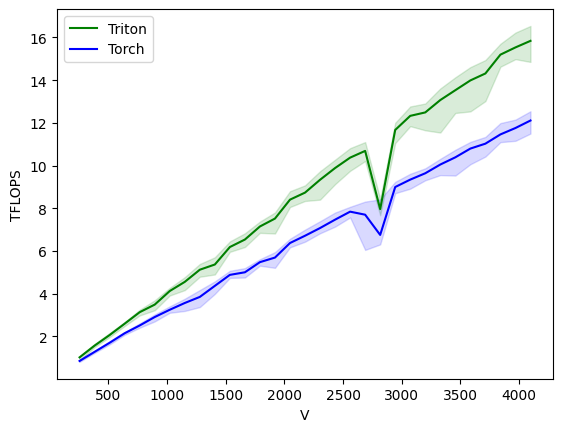
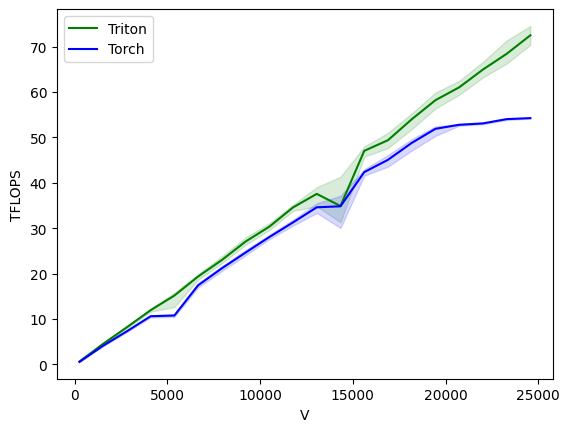
use split k in spatial gradients

diff --git a/spatial_gradients/kernels.py b/spatial_gradients/kernels.py
@@ -283,7 +283,7 @@ def _bwd_kernel2(
     stride_xgrk, stride_xgrm, stride_xgik, stride_xgim, stride_gradrk, stride_gradrn, stride_gradik, stride_gradin,
     stride_dlrm, stride_dlrn, stride_dlim, stride_dlin,
     BLOCK_M: tl.constexpr, BLOCK_N: tl.constexpr, BLOCK_K: tl.constexpr,
-    GROUP_SIZE: tl.constexpr,
+    GROUP_SIZE: tl.constexpr, SPLIT_K: tl.constexpr,
 ):
     
     # XGR is a [K, M] matrix (input)
@@ -297,12 +297,13 @@ def _bwd_kernel2(
     # DLI = XGR.T @ GRAD_IM - XGI.T @ GRAD_REAL
 
 
-    # while the lhs of some matmuls are transposed
-    # swizzling doesn't seem to help
-    pid_0 = tl.program_id(0)
-    pid_1 = tl.program_id(1)
+    pid_m = tl.program_id(0)
+    pid_n = tl.program_id(1)
+    num_pid_m, num_pid_n = tl.num_programs(0), tl.num_programs(1)
+    pid_0, pid_1 = tl.swizzle2d(pid_m, pid_n, num_pid_m, num_pid_n, GROUP_SIZE)
+    pid_k = tl.program_id(2)
 
-    offs_k = tl.arange(0, BLOCK_K)
+    offs_k = pid_k*BLOCK_K + tl.arange(0, BLOCK_K)
 
     z_row_indices = pid_0 * BLOCK_M + tl.arange(0, BLOCK_M)
     z_col_indices = pid_1 * BLOCK_N + tl.arange(0, BLOCK_N)
@@ -323,12 +324,12 @@ def _bwd_kernel2(
     acc_i = tl.zeros((BLOCK_M, BLOCK_N), dtype=tl.float32)
 
     lim = K
-    xgr_k = BLOCK_K*stride_xgrk
-    xgi_k = BLOCK_K*stride_xgik
-    grad_real_k = BLOCK_K*stride_gradrk
-    grad_im_k = BLOCK_K*stride_gradik
+    xgr_k = BLOCK_K*stride_xgrk*SPLIT_K
+    xgi_k = BLOCK_K*stride_xgik*SPLIT_K
+    grad_real_k = BLOCK_K*stride_gradrk*SPLIT_K
+    grad_im_k = BLOCK_K*stride_gradik*SPLIT_K
 
-    for k in tl.range(0, tl.cdiv(K, BLOCK_K)):
+    for k in tl.range(0, tl.cdiv(K, BLOCK_K*SPLIT_K)):
 
         xgr_block = tl.load(xgr_ptrs, mask=(offs_k[:, None] < lim) & xg_mask, other=0.0).trans()
         xgi_block = tl.load(xgi_ptrs, mask=(offs_k[:, None] < lim) & xg_mask, other=0.0).trans()
@@ -342,7 +343,7 @@ def _bwd_kernel2(
         xgi_ptrs += xgi_k
         grad_real_ptrs += grad_real_k
         grad_im_ptrs += grad_im_k
-        lim -= BLOCK_K
+        lim -= BLOCK_K*SPLIT_K
 
     acc_r = acc_r.to(dlr_ptr.dtype.element_ty)
     acc_i = acc_i.to(dli_ptr.dtype.element_ty)
@@ -351,8 +352,15 @@ def _bwd_kernel2(
     dli_ptrs = dli_ptr + offs_m[:, None]*stride_dlim + offs_n[None, :]*stride_dlin
     z_mask = (z_row_indices < M)[:, None] & (z_col_indices < N)[None, :]
 
-    tl.store(dlr_ptrs, acc_r, mask=z_mask)
-    tl.store(dli_ptrs, acc_i, mask=z_mask)
+    tl.atomic_add(dlr_ptrs, acc_r, mask=z_mask, sem="relaxed")
+    tl.atomic_add(dli_ptrs, acc_i, mask=z_mask, sem="relaxed")
+
+def _zero_output2(*args, **kwargs):
+    if kwargs["SPLIT_K"] != 1:
+      args[4].zero_()
+      args[5].zero_()
+
+_bwd_kernel2.add_pre_run_hook(_zero_output2)
 
 @triton.jit
 def _bwd_kernel3(
@@ -450,7 +458,7 @@ def _bwd_kernel4(
     stride_grk, stride_grm, stride_gik, stride_gim, stride_gradrk, stride_gradrn, stride_gradik, stride_gradin,
     stride_dxm, stride_dxn,
     BLOCK_M: tl.constexpr, BLOCK_N: tl.constexpr, BLOCK_K: tl.constexpr,
-    GROUP_SIZE: tl.constexpr,
+    GROUP_SIZE: tl.constexpr, SPLIT_K: tl.constexpr,
 ):
     
     # GR is a [K, M] matrix (input)
@@ -465,8 +473,9 @@ def _bwd_kernel4(
     pid_n = tl.program_id(1)
     num_pid_m, num_pid_n = tl.num_programs(0), tl.num_programs(1)
     pid_0, pid_1 = tl.swizzle2d(pid_m, pid_n, num_pid_m, num_pid_n, GROUP_SIZE)
+    pid_k = tl.program_id(2)
 
-    offs_k = tl.arange(0, BLOCK_K)
+    offs_k = pid_k*BLOCK_K + tl.arange(0, BLOCK_K)
 
     z_row_indices = pid_0 * BLOCK_M + tl.arange(0, BLOCK_M)
     z_col_indices = pid_1 * BLOCK_N + tl.arange(0, BLOCK_N)
@@ -486,12 +495,12 @@ def _bwd_kernel4(
     acc = tl.zeros((BLOCK_M, BLOCK_N), dtype=tl.float32)
 
     lim = K
-    gr_k = BLOCK_K*stride_grk
-    gi_k = BLOCK_K*stride_gik
-    grad_real_k = BLOCK_K*stride_gradrk
-    grad_im_k = BLOCK_K*stride_gradik
+    gr_k = BLOCK_K*stride_grk*SPLIT_K
+    gi_k = BLOCK_K*stride_gik*SPLIT_K
+    grad_real_k = BLOCK_K*stride_gradrk*SPLIT_K
+    grad_im_k = BLOCK_K*stride_gradik*SPLIT_K
 
-    for k in tl.range(0, tl.cdiv(K, BLOCK_K)):
+    for k in tl.range(0, tl.cdiv(K, BLOCK_K*SPLIT_K)):
 
         gr_block = tl.load(gr_ptrs, mask=(offs_k[:, None] < lim) & g_mask, other=0.0).trans()
         gi_block = tl.load(gi_ptrs, mask=(offs_k[:, None] < lim) & g_mask, other=0.0).trans()
@@ -505,11 +514,16 @@ def _bwd_kernel4(
         gi_ptrs += gi_k
         grad_real_ptrs += grad_real_k
         grad_im_ptrs += grad_im_k
-        lim -= BLOCK_K
+        lim -= BLOCK_K*SPLIT_K
 
     acc = acc.to(dx_ptr.dtype.element_ty)
 
     dx_ptrs = dx_ptr + offs_m[:, None]*stride_dxm + offs_n[None, :]*stride_dxn
-    z_mask = g_mask & grad_mask
 
-    tl.store(dx_ptrs, acc, mask=z_mask)
+    tl.atomic_add(dx_ptrs, acc, sem="relaxed")
+
+def _zero_output4(*args, **kwargs):
+    if kwargs["SPLIT_K"] != 1:
+      args[4].zero_()
+
+_bwd_kernel4.add_pre_run_hook(_zero_output4)

diff --git a/spatial_gradients/function.py b/spatial_gradients/function.py
@@ -50,16 +50,19 @@ class SpatialGradFunction(torch.autograd.Function):
                         GROUP_SIZE=8)
     
     # linear weights
-    dLR = torch.empty((k, n), dtype=dZ.dtype, device=dZ.device)
-    dLI = torch.empty((k, n), dtype=dZ.dtype, device=dZ.device)
+    dLR = torch.empty((k, n), dtype=torch.float32, device=dZ.device)
+    dLI = torch.empty((k, n), dtype=torch.float32, device=dZ.device)
     grid2 = lambda meta: (triton.cdiv(k, meta['BLOCK_M']), triton.cdiv(n, meta['BLOCK_N']))
     _bwd_kernel2[grid2](xgr, xgi, grad_x_real, grad_x_im,
                        dLR, dLI,
                        k, n, m,
                        xgr.stride(0), xgr.stride(1), xgi.stride(0), xgi.stride(1), grad_x_real.stride(0), grad_x_real.stride(1), grad_x_im.stride(0), grad_x_im.stride(1),
                        dLR.stride(0), dLR.stride(1), dLI.stride(0), dLI.stride(1),
-                       BLOCK_M=32, BLOCK_N=32, BLOCK_K=128,
-                       GROUP_SIZE=8)
+                       BLOCK_M=64, BLOCK_N=64, BLOCK_K=64,
+                       GROUP_SIZE=4, SPLIT_K=6)
+    
+    dLR.to(lr.dtype)
+    dLI.to(li.dtype)
 
     # x
     grad_x_grads_real_total = torch.empty((m, n), dtype=xgr.dtype, device=xgr.device)
@@ -74,14 +77,14 @@ class SpatialGradFunction(torch.autograd.Function):
                        GROUP_SIZE=8)
 
     k, m = gr.shape
-    dX = torch.empty((m, n), dtype=dZ.dtype, device=dZ.device)
+    dX = torch.empty((m, n), dtype=torch.float32, device=dZ.device)
     _bwd_kernel4[grid](gr, gi, grad_x_grads_real_total, grad_x_grads_im_total,
                        dX,
                        m, n, k,
                        gr.stride(0), gr.stride(1), gi.stride(0), gr.stride(1),
                        grad_x_grads_real_total.stride(0), grad_x_grads_real_total.stride(1), grad_x_grads_im_total.stride(0), grad_x_grads_im_total.stride(1),
                        dX.stride(0), dX.stride(1),
-                       BLOCK_M=32, BLOCK_N=32, BLOCK_K=128,
-                       GROUP_SIZE=8)
+                       BLOCK_M=32, BLOCK_N=64, BLOCK_K=64,
+                       GROUP_SIZE=4, SPLIT_K=6)
 
-    return dX, dGR, dGI, dLR, dLI
+    return dX.to(dZ.dtype), dGR, dGI, dLR, dLI

diff --git a/spatial_gradients/README.md b/spatial_gradients/README.md
@@ -35,25 +35,21 @@ This performs extremely well, giving the following in benchmarking using BFloat1
 
 ![Plot of TFLOP/s, higher is better](plots/fwd_bf16.png)
 
+It looks even more promosing when `V` increases further:
+
+![Plot of TFLOP/s, higher is better](plots/fwd_large.png)
+
 ## Backward Pass
 
 The backward pass is a lot more complicated.
 
 `x`, `linear_real` and `linear_im` need gradients accumulated, but have different dimensions.
-Gradients flow bad through multiple paths, and hence need to be summed.
+Gradients flow back through multiple paths, and hence need to be summed.
 
 This implementation uses 4 separate kernels to compute the backward pass. Two do re-computation and intermediate calculations,
 one does the grads for `linear_real/linear_im` and one does the grads for `x`.
 
-This requires fewer saved tensors than the native torch implementation, and performs pretty decently.
+This requires fewer saved tensors than the native torch implementation, and performs pretty decently,
+especially as `V` increases.
 
 ![Plot of TFLOP/s, higher is better](plots/bwd_bf16.png)
-
-### Current slowdown
-
-Two of the backward kernels are slower than just using torch, when `NUM_VERTS` is very large.
-This is as they are performing matrix multiplications like `(256, NUM_VERTS)x(NUM_VERTS, 256)`.
-A very large inner dimension, with a fairly small outer dimension leads to inefficient use of the GPU.
-
-It's possible that a type of Split-K algorithm may help when `NUM_VERTS` is large, which is next on the list to try.
-
